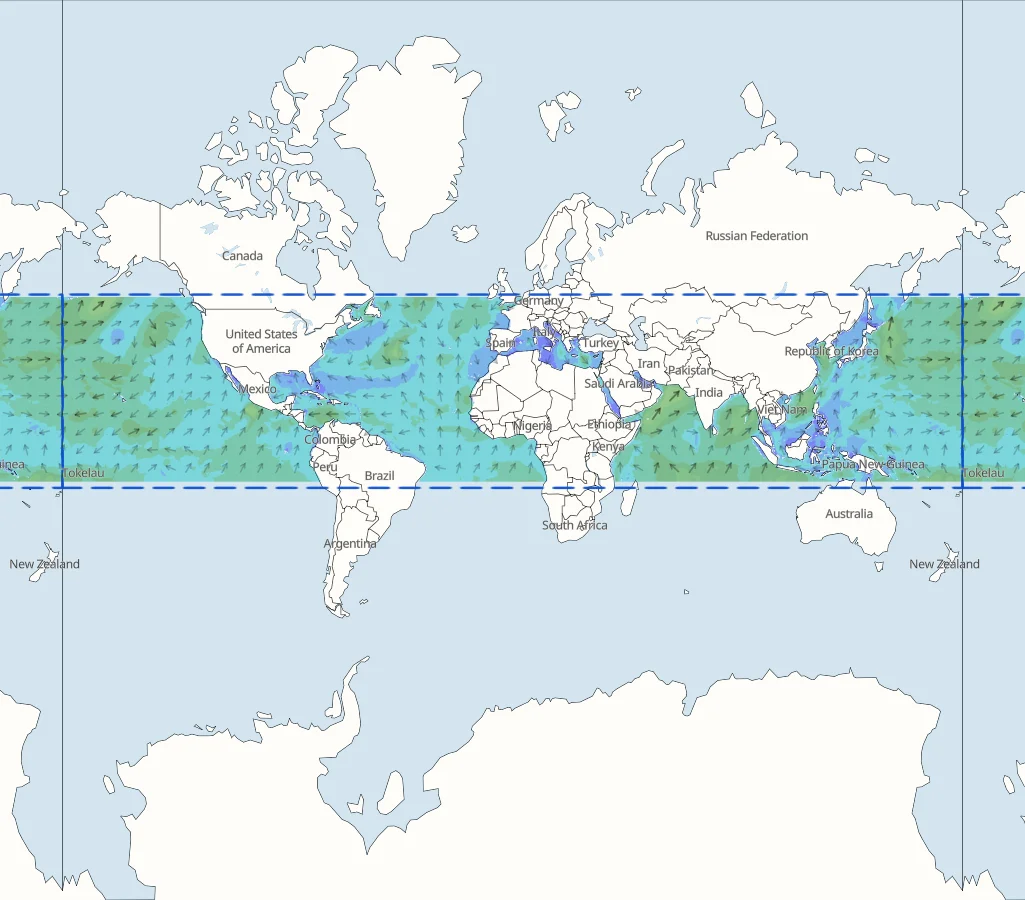
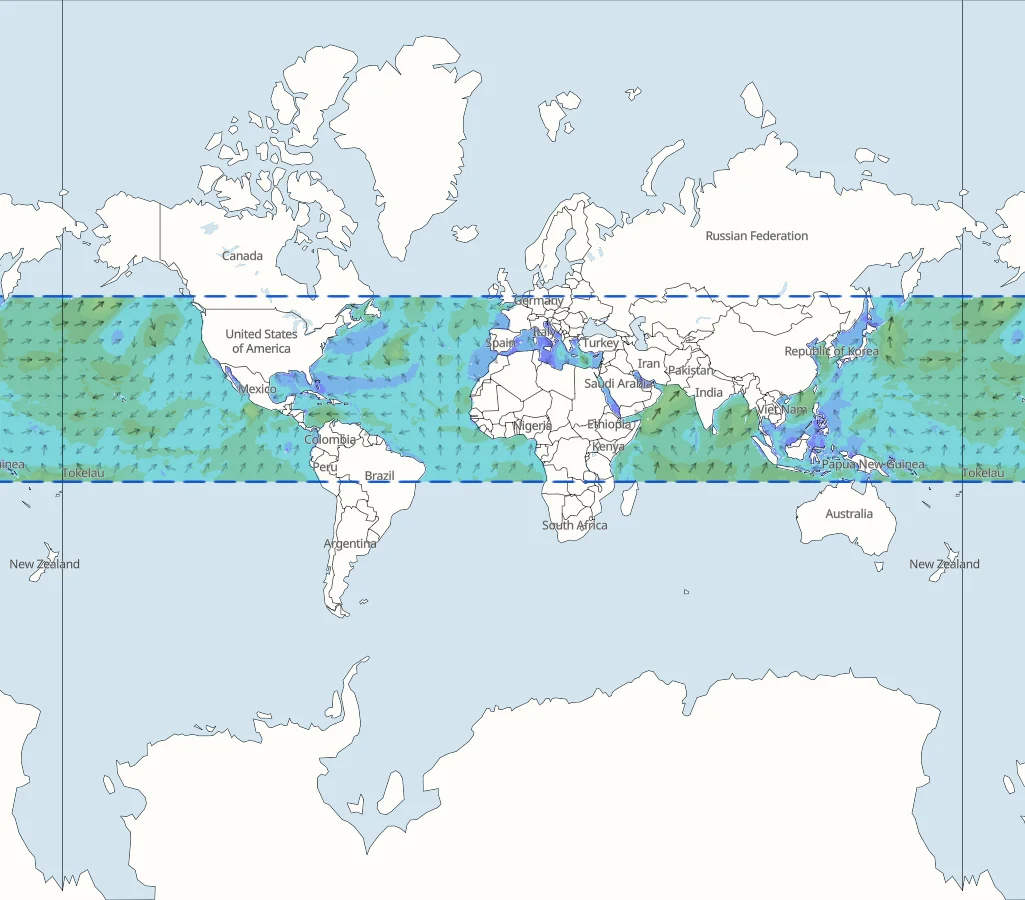
rm bom and kma from model updates, update gfswave016 images

Changed region(s): [[0.0, 0.3111, 1.0, 0.56]]

diff --git a/src/routes/en/docs/model-updates/+page.svelte b/src/routes/en/docs/model-updates/+page.svelte
@@ -109,18 +109,6 @@
 	const getData = (apiKeyPreferences: APIKeyPreferences): Section[] => {
 		let forecastModels = [
 			{
-				provider: 'BOM',
-				url: '/en/docs/bom-api',
-				unavailableSince: 'June 2025',
-				models: [
-					{
-						name: 'ACCESS-G 0.15°',
-						area: [],
-						meta: fetchMeta('bom_access_global', 'forecast', apiKeyPreferences)
-					}
-				]
-			},
-			{
 				provider: 'CMA',
 				url: '/en/docs/cma-api',
 				models: [
@@ -250,23 +238,6 @@
 						name: 'MSM 0.05°',
 						area: ['jp'],
 						meta: fetchMeta('jma_msm', 'forecast', apiKeyPreferences)
-					}
-				]
-			},
-			{
-				provider: 'KMA Korea',
-				url: '/en/docs/kma-api',
-				unavailableSince: 'April 2026',
-				models: [
-					{
-						name: 'KMA GDPS 0.13°',
-						area: [],
-						meta: fetchMeta('kma_gdps', 'forecast', apiKeyPreferences)
-					},
-					{
-						name: 'KMA LDPS 1.5km',
-						area: ['kr'],
-						meta: fetchMeta('kma_ldps', 'forecast', apiKeyPreferences)
 					}
 				]
 			},
@@ -454,18 +425,6 @@
 		];
 
 		let ensembleModels = [
-			{
-				provider: 'BOM',
-				url: '/en/docs/bom-api',
-				unavailableSince: 'June 2025',
-				models: [
-					{
-						name: 'ACCESS-GE 0.4°',
-						area: [],
-						meta: fetchMeta('bom_access_global_ensemble', 'ensemble', apiKeyPreferences)
-					}
-				]
-			},
 			{
 				provider: 'Canadian Weather Service',
 				url: '/en/docs/gem-api',

diff --git a/src/routes/en/docs/marine-weather-api/+page.svelte b/src/routes/en/docs/marine-weather-api/+page.svelte
@@ -764,20 +764,20 @@
 			</table>
 		</div>
 		<ZoomableImageGallery class="mt-3 grid grid-cols-1 gap-3 md:mt-6 md:gap-6 lg:grid-cols-2">
-			<ZoomableImage src="/images/models/dwd_ewam.webp" alt="DWD EWAM Model Area">
-				{#snippet caption()}
-					DWD EWAM Wave Model Area. Source:
-					<a href="https://maps.open-meteo.com/?domain=dwd_ewam#3.1/51.43/15.80">Open-Meteo</a>.
-				{/snippet}
-			</ZoomableImage>
-
 			<ZoomableImage src="/images/models/ncep_gfswave016.webp" alt="NCEP GFS Wave Wave 0.16°">
 				{#snippet caption()}
 					NCEP GFS Wave 0.16° Model Area. Source:
 					<a
-						href="https://maps.open-meteo.com/?domain=ncep_gfswave016&variable=wave_height#1.69/8.5/47.1"
+						href="https://maps.open-meteo.com/?domain=ncep_gfswave016&variable=wave_height#2/13.2/-0.8"
 						>Open-Meteo</a
 					>.
+				{/snippet}
+			</ZoomableImage>
+
+			<ZoomableImage src="/images/models/dwd_ewam.webp" alt="DWD EWAM Model Area">
+				{#snippet caption()}
+					DWD EWAM Wave Model Area. Source:
+					<a href="https://maps.open-meteo.com/?domain=dwd_ewam#3.1/51.43/15.80">Open-Meteo</a>.
 				{/snippet}
 			</ZoomableImage>
 		</ZoomableImageGallery>